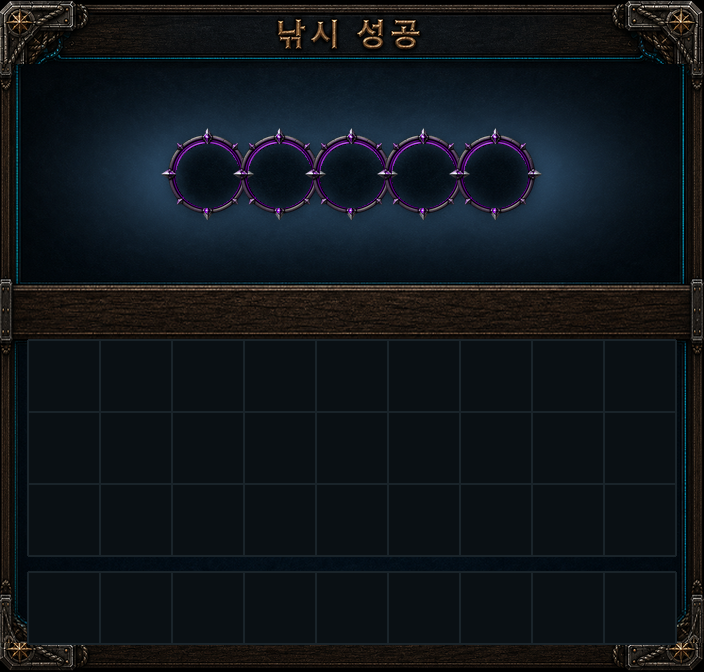
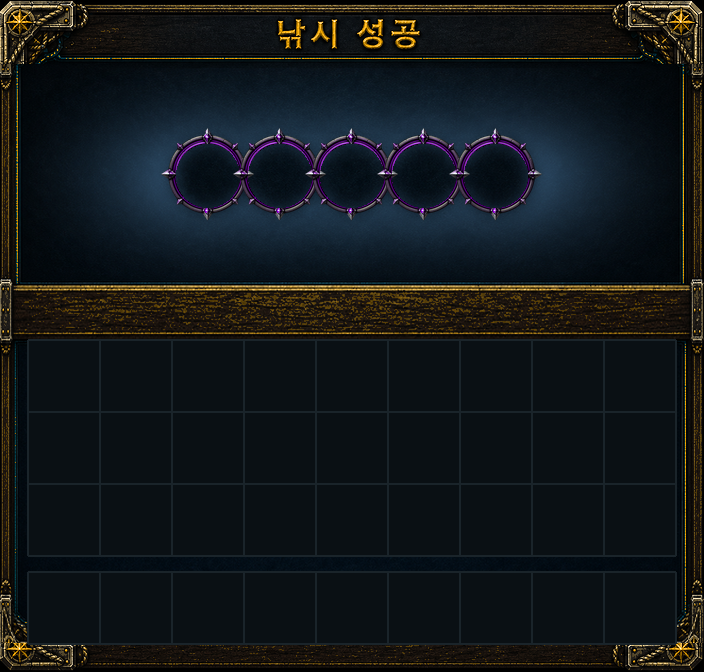
금테두리를 A등급부터 — 승격이 화면 전체로 읽히는 경계를 A에 둔다
weak(A·S)·mid(M·L)도 gold=True. 티어 간 차이는 광휘 색·강도와 소켓 색으로
유지해 A→G 사이에도 단계가 남는다.

Changed region(s): [[0.0, 0.0, 1.0, 1.0], [0.0, 0.5625, 0.125, 1.0]]

diff --git a/gui-forge/build_fishing_success_bg.py b/gui-forge/build_fishing_success_bg.py
@@ -66,10 +66,12 @@ GLOW_BAND_H = 216
 HAIRLINE_BANDS = [(134, 146), (206, 218)]
 HAIRLINE_SRC_DY = 26
 
+# ★금테두리는 A(rank5)부터 — 등급 승격이 화면 전체로 읽히는 경계를 A에 둔다.
+#   티어 간 차이는 광휘 색·강도와 소켓 색으로 유지해 A→G 사이에도 단계가 남는다.
 TIERS = [
     {"id": "basic", "grades": ["E", "D", "C", "B"], "socket": None,               "glow": None,                     "gold": False},
-    {"id": "weak",  "grades": ["A", "S"],           "socket": (0.78, 1.20, 1.05), "glow": ((120, 190, 255), 0.55),  "gold": False},
-    {"id": "mid",   "grades": ["M", "L"],           "socket": (0.09, 1.30, 1.10), "glow": ((255, 170, 90), 0.75),   "gold": False},
+    {"id": "weak",  "grades": ["A", "S"],           "socket": (0.78, 1.20, 1.05), "glow": ((120, 190, 255), 0.55),  "gold": True},
+    {"id": "mid",   "grades": ["M", "L"],           "socket": (0.09, 1.30, 1.10), "glow": ((255, 170, 90), 0.75),   "gold": True},
     {"id": "max",   "grades": ["G"],                "socket": (0.12, 1.35, 1.15), "glow": ((255, 215, 120), 1.00),  "gold": True},
 ]
 
